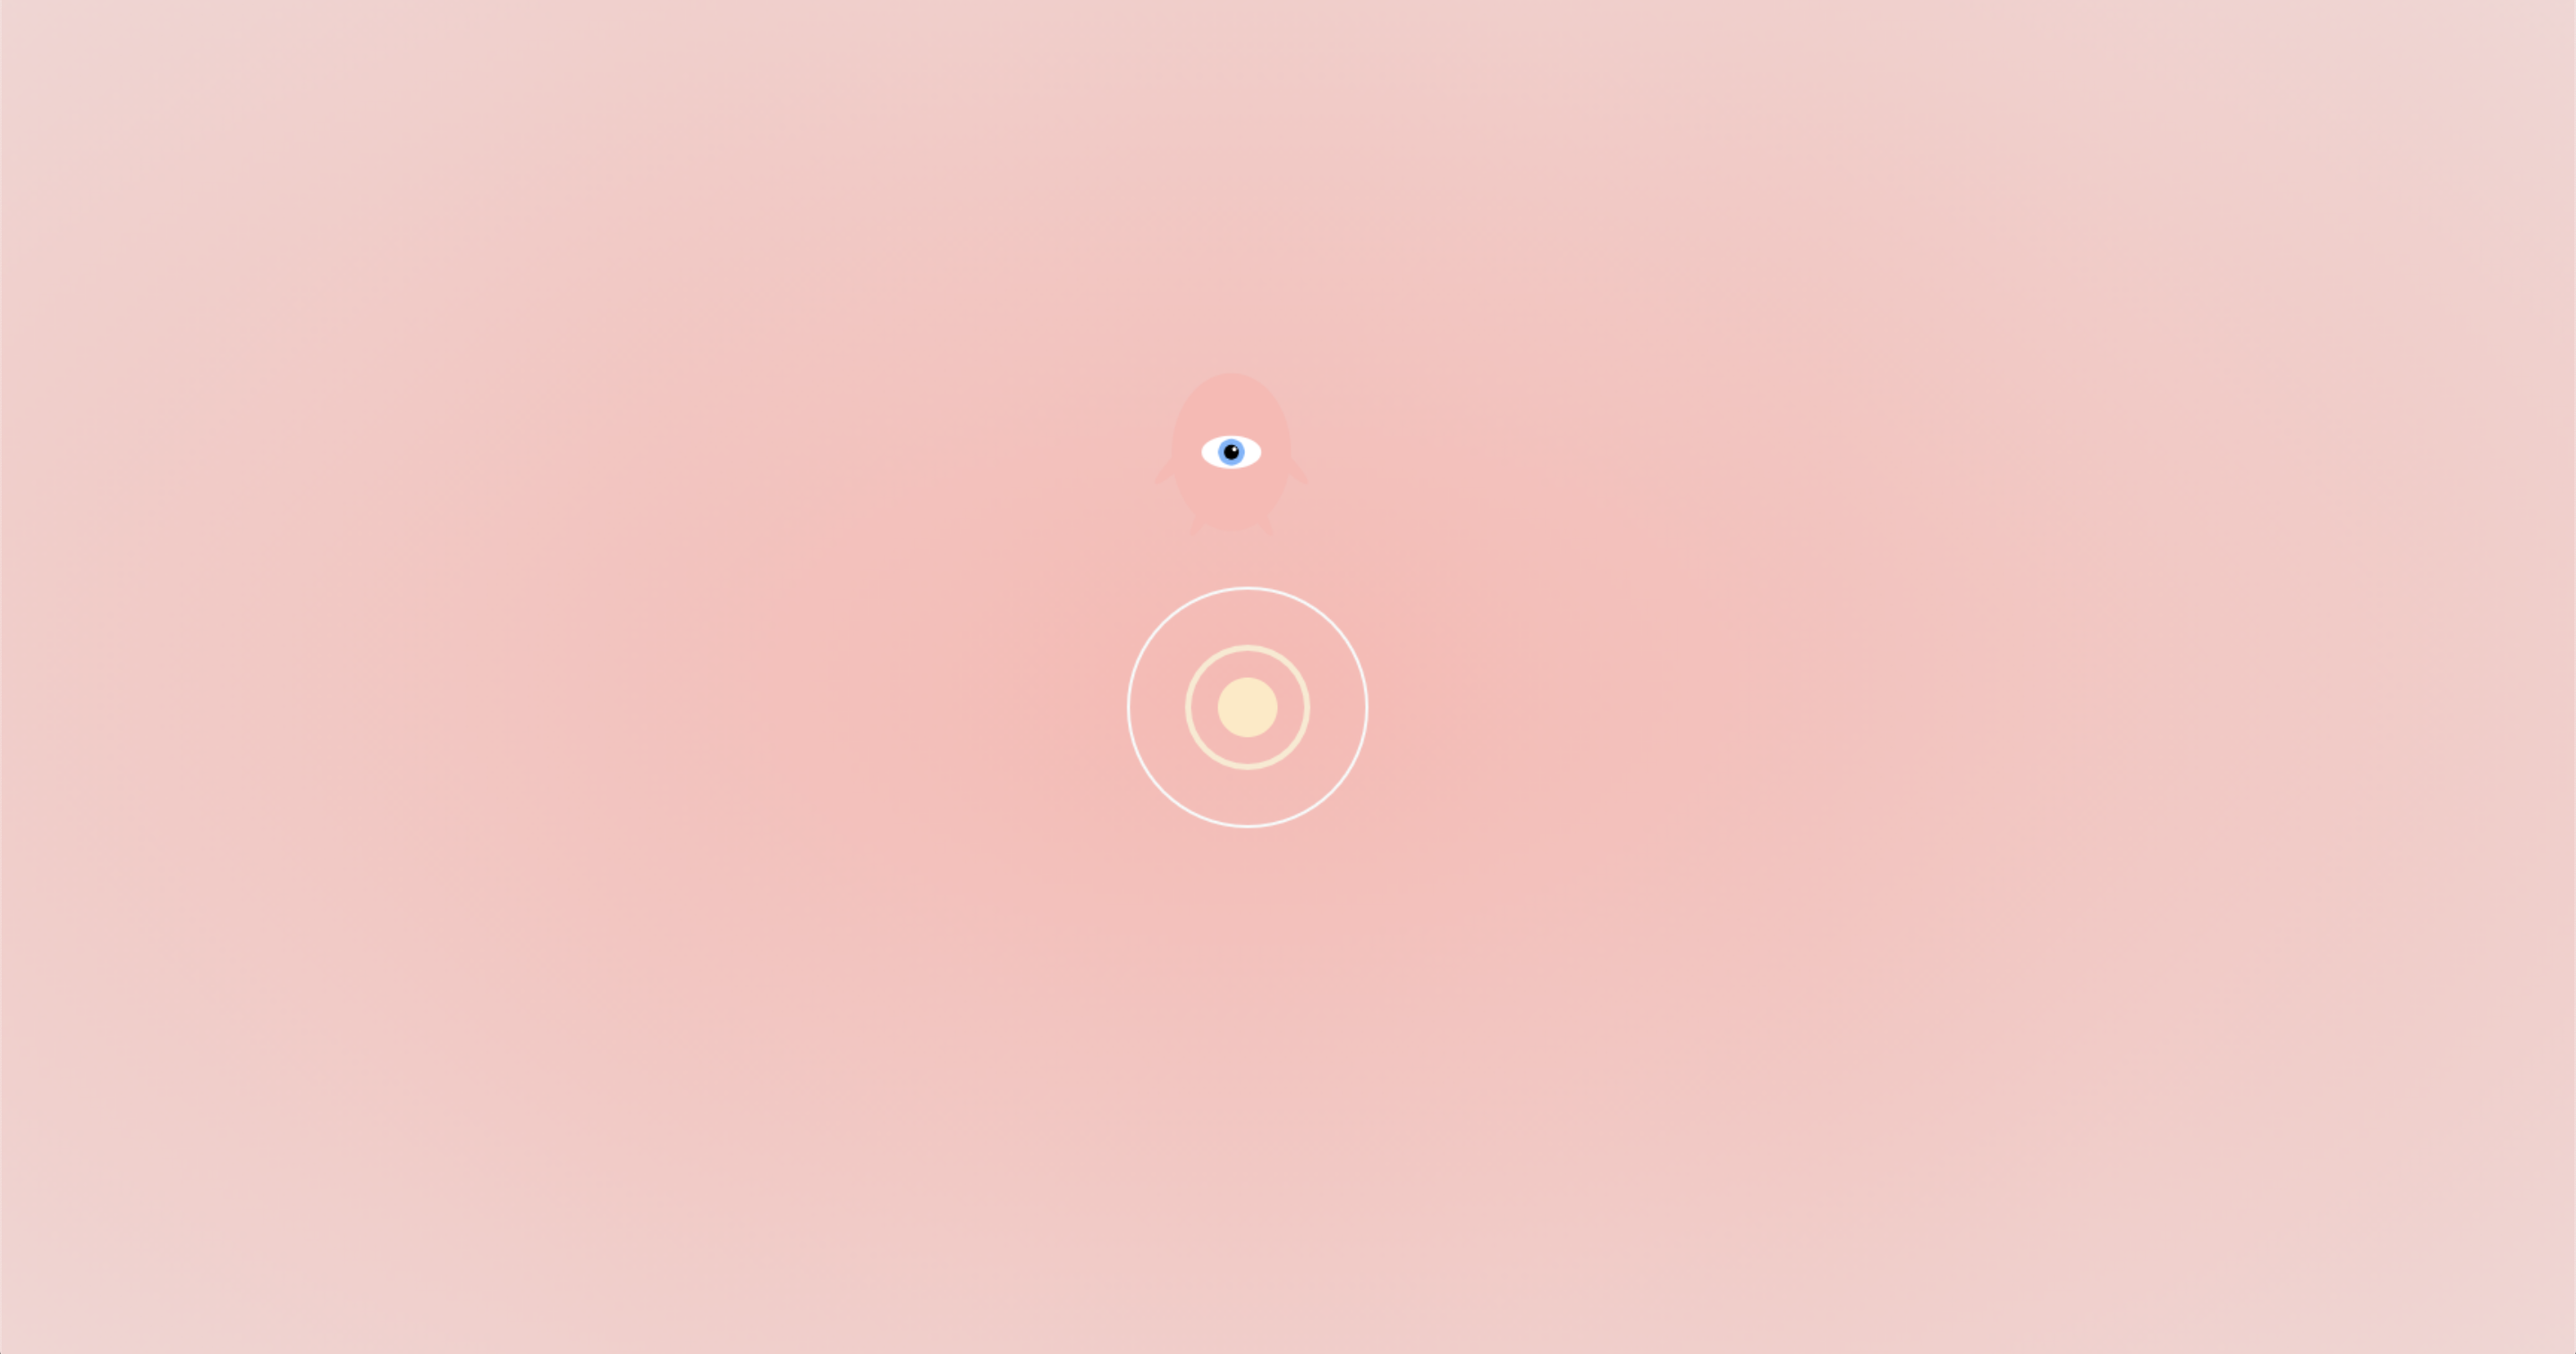
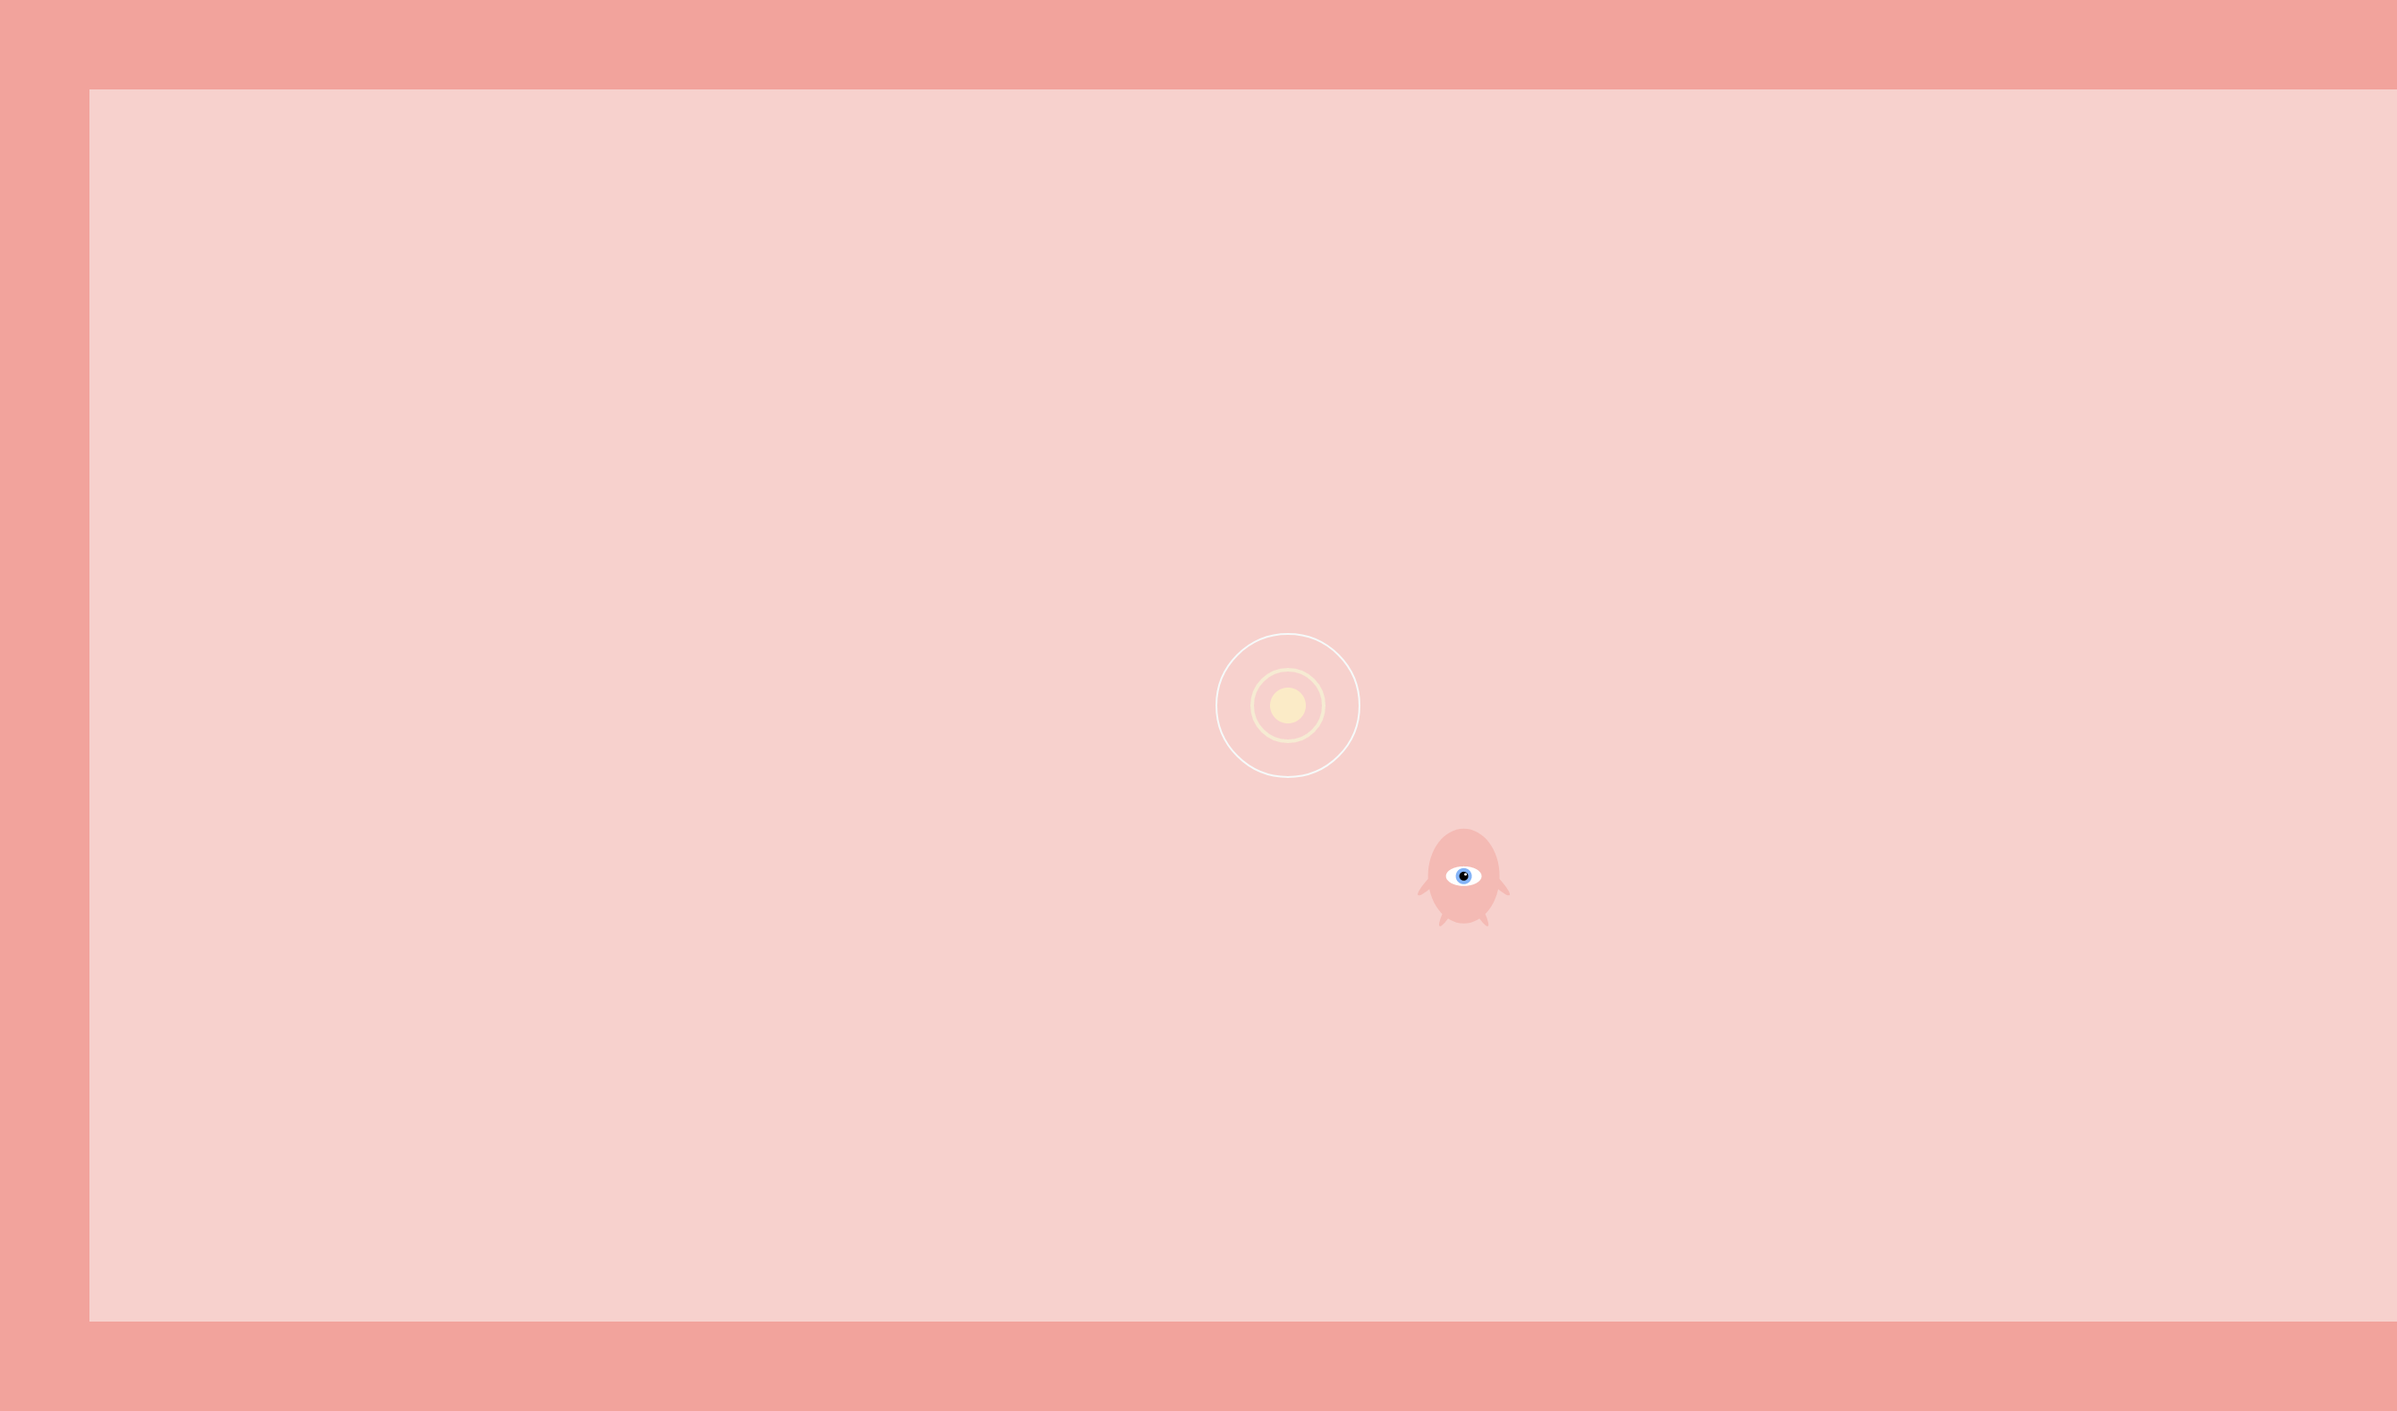
aesthetics

Changed region(s): [[0.0, 0.0, 1.0, 1.0], [0.4336, 0.2794, 0.5265, 0.4036], [0.4646, 0.4657, 0.5575, 0.5588]]

diff --git a/index.html b/index.html
@@ -2,27 +2,33 @@
 <html>
 	<head>
 		<title>Dra</title>
-	    <link rel="shortcut icon" href="favicon.ico">
-        <meta name="viewport" content="width=device-width, initial-scale=1.0, user-scalable=no"/>
-        <meta name="description" content="camilodoa.ml/dra"/>
-        <meta name="author" content="camilodoa"/>
-        <meta property="og:title" content="Dra"/>
-        <meta property="og:type" content="article"/>
-        <meta property="og:description" content="Deep reinforcement learning in the browser"/>
-        <meta property="og:image" content="image.png"/>
-        <meta property="og:url" content="https://camilodoa.ml/dra"/>
-        <meta name="twitter:card" content="summary"/>
-        <meta name="twitter:title" content="Dra"/>
-        <meta name="twitter:description" content="Deep reinfocement learning in the browser"/>
-        <meta property="og:site_name" content="Dra"/>
-        <meta name="twitter:image" content="image.png"/>
+        <link rel="shortcut icon" href="favicon/favicon.ico">
+        <link rel="icon" type="image/png" href="favicon/favicon-16x16.png" sizes="16x16">
+        <link rel="icon" type="image/png" href="favicon/favicon-32x32.png" sizes="32x32">
+        <link rel="apple-touch-icon"  href="favicon/apple-touch-icon.png">
+        <link rel="android-chrome" href="favicon/android-chrome-192x192.png" sizes="192x192">
+        <link rel="android-chrome" href="favicon/android-chrome512x512.png" sizes="512x512">
+        <link rel="manifest" href="favicon/site.webmanifest">
+        <meta name="viewport" content="width=device-width, initial-scale=1.0, user-scalable=no">
+        <meta name="description" content="camilodoa.ml/dra">
+        <meta name="author" content="camilodoa">
+        <meta property="og:title" content="Dra">
+        <meta property="og:type" content="article">
+        <meta property="og:description" content="Deep reinforcement learning in the browser">
+        <meta property="og:image" content="image.png">
+        <meta property="og:url" content="https://camilodoa.ml/dra">
+        <meta name="twitter:card" content="summary">
+        <meta name="twitter:title" content="Dra">
+        <meta name="twitter:description" content="Deep reinfocement learning in the browser">
+        <meta property="og:site_name" content="Dra">
+        <meta name="twitter:image" content="image.png">
         <link rel="stylesheet" type="text/css" href="css/sheet.css">
-        <script async src="https://www.googletagmanager.com/gtag/js?id=UA-165865112-1"></script>
     </head>
 	<body>
         <canvas id="space"></canvas>
         <script type="text/javascript" src="javascript/paper.js"></script>
         <script type="text/javascript" src="javascript/ann.js"></script>
         <script type="text/javascript" src="javascript/dra.js"></script>
+        <script type="text/javascript" src="javascript/darkmode.js"></script>
 	</body>
 </html>

diff --git a/css/sheet.css b/css/sheet.css
@@ -1,14 +1,14 @@
 html, body {
     overflow: hidden;
     height: 100%;
-}
-body {
-    background-image: radial-gradient(#FFB7B2, #ece9e9);
+    margin: 0px;
 }
 canvas {
-    display: block;
-    margin-left: auto;
-    margin-right: auto;
-    height: 100%;
-    width: 100%;
+    position: absolute;
+    left: 0;
+    top: 0;
+    width: calc(100vw - 100px);
+    height: calc(100vh - 100px);
+    margin: 50px 50px 50px 50px;
+    background-color: #ffcfcc;
 }

diff --git a/javascript/dra.js b/javascript/dra.js
@@ -16,7 +16,7 @@ window.onload = function() {
   // number of babies
   const n = 1;
   // color
-  const bodyColor = '#FFB7B2';
+  const bodyColor = '#ffb7b2';
   // goal
   let goal = new Point(view.center.x, view.center.y);
   // max world's inertia

diff --git a/javascript/darkmode.js b/javascript/darkmode.js
@@ -1,0 +1,3 @@
+let now = new Date().getHours();
+if (now > 20 || now < 7) document.body.style.backgroundColor = '#ff9f99';
+else document.body.style.backgroundColor = '#ffe7e5';
